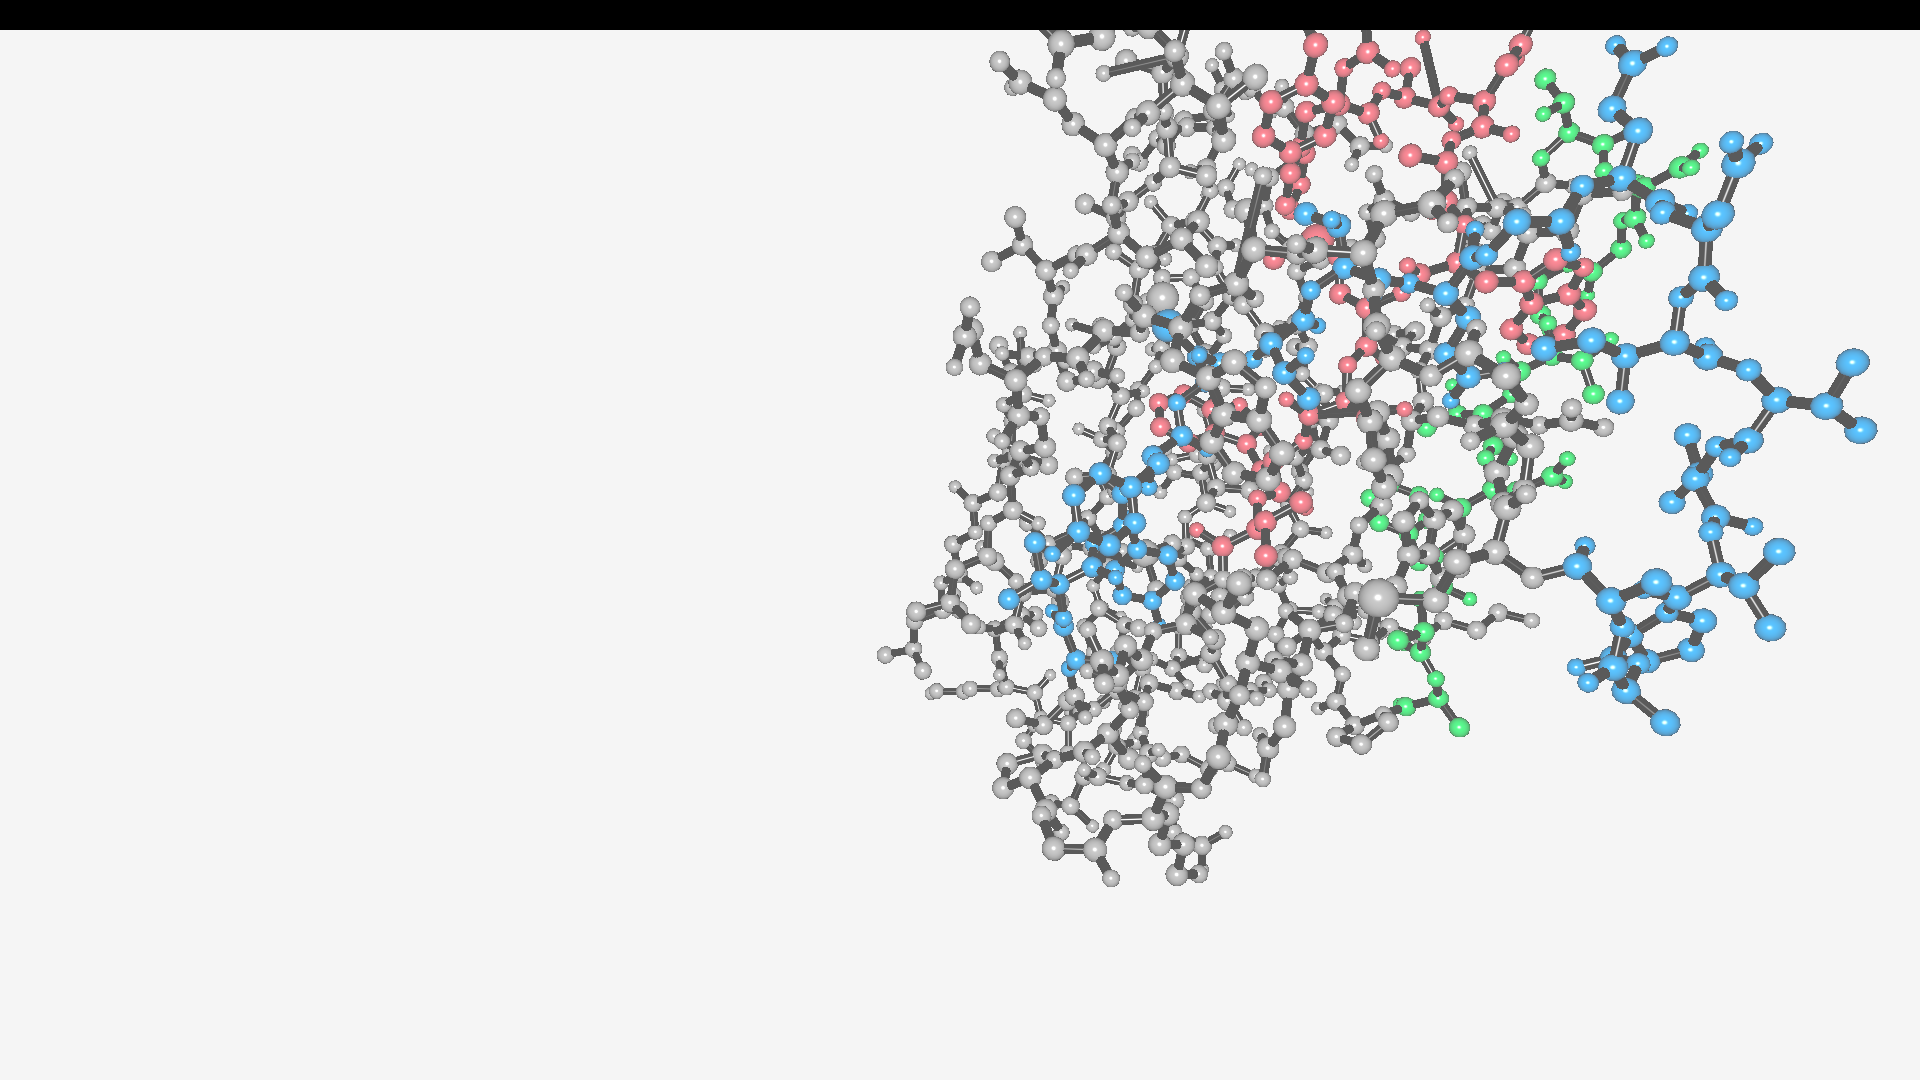
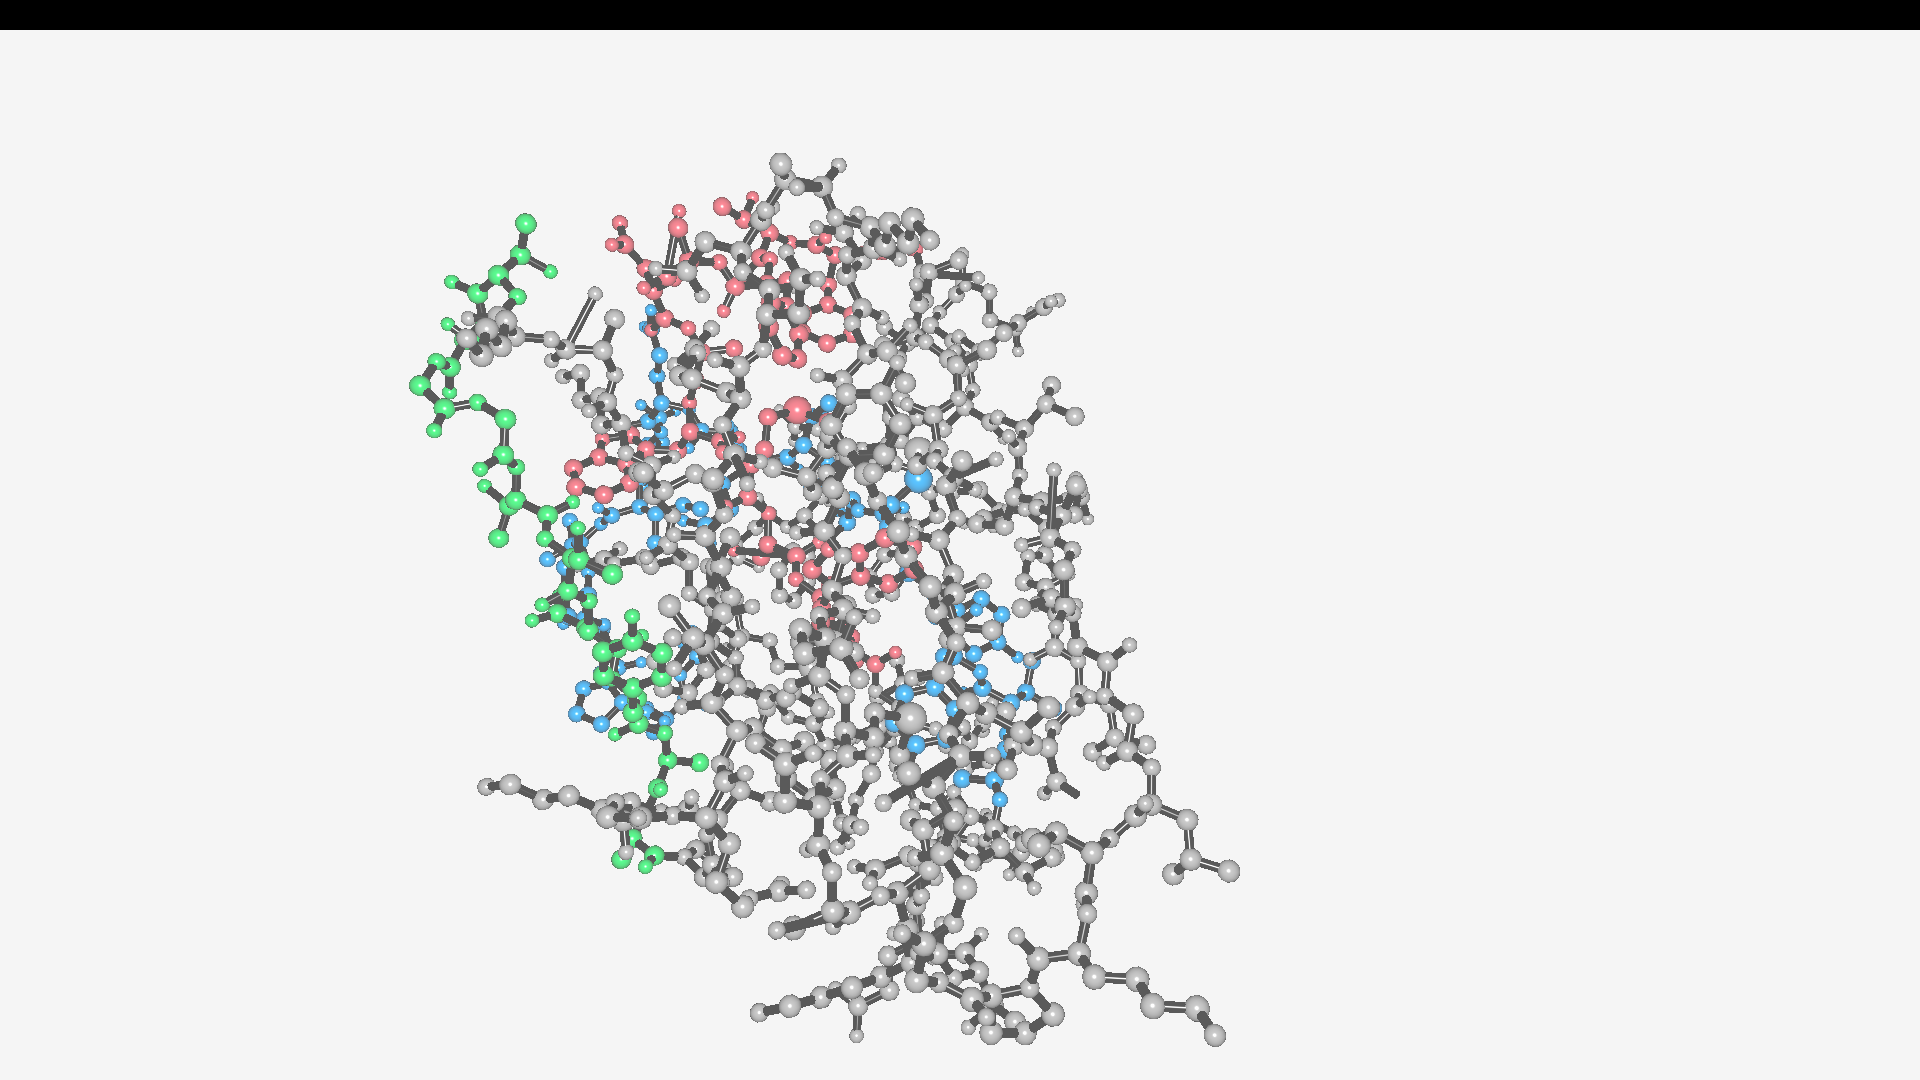
fixed screenshots

Changed region(s): [[0.2188, 0.0306, 0.9688, 0.9778], [0.5938, 0.9167, 0.6562, 0.9778], [0.9688, 0.3972, 1.0, 0.4278]]

diff --git a/PdbGraphicEngine/PdbGraphicEngine.py b/PdbGraphicEngine/PdbGraphicEngine.py
@@ -1,5 +1,4 @@
 from pyray import *
-from PIL import Image
 
 from BiologicalConstants import relative_atom_radius
 from PdbToObj import PdbParser3D
@@ -59,6 +58,9 @@ class Group:
         self.bonds = self.assign_bonds()
         self.atom_transforms = self.compute_atom_transforms()
         self.bond_transforms = self.compute_bond_transforms()
+
+        self.default_atom_transforms = self.atom_transforms.copy()
+        self.default_bond_transforms = self.bond_transforms.copy()
 
         self.atoms_color = atoms_color
         self.bonds_color = bonds_color
@@ -126,6 +128,10 @@ class Group:
             )
         return transforms_container
 
+    def reset_transforms(self):
+        self.atom_transforms = self.default_atom_transforms.copy()
+        self.bond_transforms = self.default_bond_transforms.copy()
+
     def show(self):
         if not self.should_show:
             return
@@ -183,8 +189,14 @@ class GraphicEngine:
         is_camera_orbit_control = False
         show_grid = True
         is_rendering = False
-        spin_counter = 0
-        spin = 0
+
+        spin_counter_x = 0
+        spin_counter_y = 0
+        spin_counter_z = 0
+        spin_x = 0
+        spin_y = 0
+        spin_z = 0
+
         cdr_show = 5
         while not window_should_close():
             # camera mode controller
@@ -192,16 +204,17 @@ class GraphicEngine:
                 is_camera_orbit_control = not is_camera_orbit_control
             if is_key_pressed(KeyboardKey.KEY_H):
                 show_grid = not show_grid
-            if is_camera_orbit_control:
-                self.camera.target = Vector3(0.0, 0.0, 0.0)
-                update_camera(self.camera, CameraMode.CAMERA_ORBITAL)
-            else:
-                update_camera(self.camera, CameraMode.CAMERA_FREE)
-            if is_key_pressed(KeyboardKey.KEY_Z):
+            if is_key_pressed(KeyboardKey.KEY_F):
                 is_rendering = not is_rendering
             if is_key_pressed(KeyboardKey.KEY_X):
-                spin_counter += 1
-                spin = (spin_counter % 3) - 1
+                spin_counter_x += 1
+                spin_x = (spin_counter_x % 3) - 1
+            if is_key_pressed(KeyboardKey.KEY_Y):
+                spin_counter_y += 1
+                spin_y = (spin_counter_y % 3) - 1
+            if is_key_pressed(KeyboardKey.KEY_Z):
+                spin_counter_z += 1
+                spin_z = (spin_counter_z % 3) - 1
             # reset camera
             if is_key_pressed(KeyboardKey.KEY_R):
                 self.camera.target = Vector3(0.0, 0.0, 0.0)
@@ -222,9 +235,29 @@ class GraphicEngine:
                 cdr_show = 4
             if is_key_pressed(KeyboardKey.KEY_FIVE):
                 cdr_show = 5
+            if is_key_pressed(KeyboardKey.KEY_F):
+                for group in Globals.ATOMS_GROUP:
+                    group.reset_transforms()
 
-            if spin != 0:
-                spin_matrix = matrix_rotate(Vector3(0.0, 1.0, 0.0), get_frame_time() * 0.5 * spin)
+            if is_camera_orbit_control:
+                self.camera.target = Vector3(0.0, 0.0, 0.0)
+                update_camera(self.camera, CameraMode.CAMERA_ORBITAL)
+            else:
+                update_camera(self.camera, CameraMode.CAMERA_FREE)
+            if spin_z > 0:
+                spin_matrix = matrix_rotate(Vector3(0.0, 1.0, 0.0), get_frame_time() * 0.5 * spin_z)
+                for group in Globals.ATOMS_GROUP:
+                    if group.show:
+                        group.atom_transforms = in_place_array_mat_mul(group.atom_transforms, spin_matrix)
+                        group.bond_transforms = in_place_array_mat_mul(group.bond_transforms, spin_matrix)
+            if spin_x > 0:
+                spin_matrix = matrix_rotate(Vector3(1.0, 0.0, 0.0), get_frame_time() * 0.5 * spin_x)
+                for group in Globals.ATOMS_GROUP:
+                    if group.show:
+                        group.atom_transforms = in_place_array_mat_mul(group.atom_transforms, spin_matrix)
+                        group.bond_transforms = in_place_array_mat_mul(group.bond_transforms, spin_matrix)
+            if spin_y > 0:
+                spin_matrix = matrix_rotate(Vector3(0.0, 0.0, 1.0), get_frame_time() * 0.5 * spin_y)
                 for group in Globals.ATOMS_GROUP:
                     if group.show:
                         group.atom_transforms = in_place_array_mat_mul(group.atom_transforms, spin_matrix)
@@ -273,19 +306,19 @@ class GraphicEngine:
             end_mode_3d()
 
             # Draw GUI
-            draw_rectangle(10, 40, 240, 200, fade(SKYBLUE, 0.5))
-            draw_rectangle_lines(10, 40, 240, 200, BLUE)
+            draw_rectangle(10, 40, 320, 200, fade(SKYBLUE, 0.5))
+            draw_rectangle_lines(10, 40, 320, 200, BLUE)
 
             draw_text("Free camera default controls:", 20, 45, 10, BLACK)
-            draw_text("- WASD to move", 40, 60, 10, DARKGRAY)
+            draw_text("- WASD to move, Q/E to lean left/right", 40, 60, 10, DARKGRAY)
             draw_text("- SPACE/L-CTRL to move up/down ", 40, 80, 10, DARKGRAY)
-            draw_text("- Z to render", 40, 100, 10, DARKGRAY)
+            draw_text("- F to render", 40, 100, 10, DARKGRAY)
             draw_text("- X to make the receptor spin", 40, 120, 10, DARKGRAY)
             draw_text("- R to reset camera", 40, 140, 10, DARKGRAY)
             draw_text("- H to toggle the grid", 40, 160, 10, DARKGRAY)
             draw_text("- O to toggle the orbit view", 40, 180, 10, DARKGRAY)
+            draw_text("- 1 through 5 to show CDR1/CDR2/CDR3/Fab/whole", 40, 220, 10, DARKGRAY)
             draw_text("- Mouse Wheel or +/- to Zoom in-out", 40, 200, 10, DARKGRAY)
-            draw_text("- Mouse Wheel Pressed to Pan", 40, 220, 10, DARKGRAY)
 
             draw_rectangle(10, 240, 100, 100, fade(LIGHTGRAY, 0.5))
             draw_rectangle_lines(10, 240, 100, 100, LIGHTGRAY)
